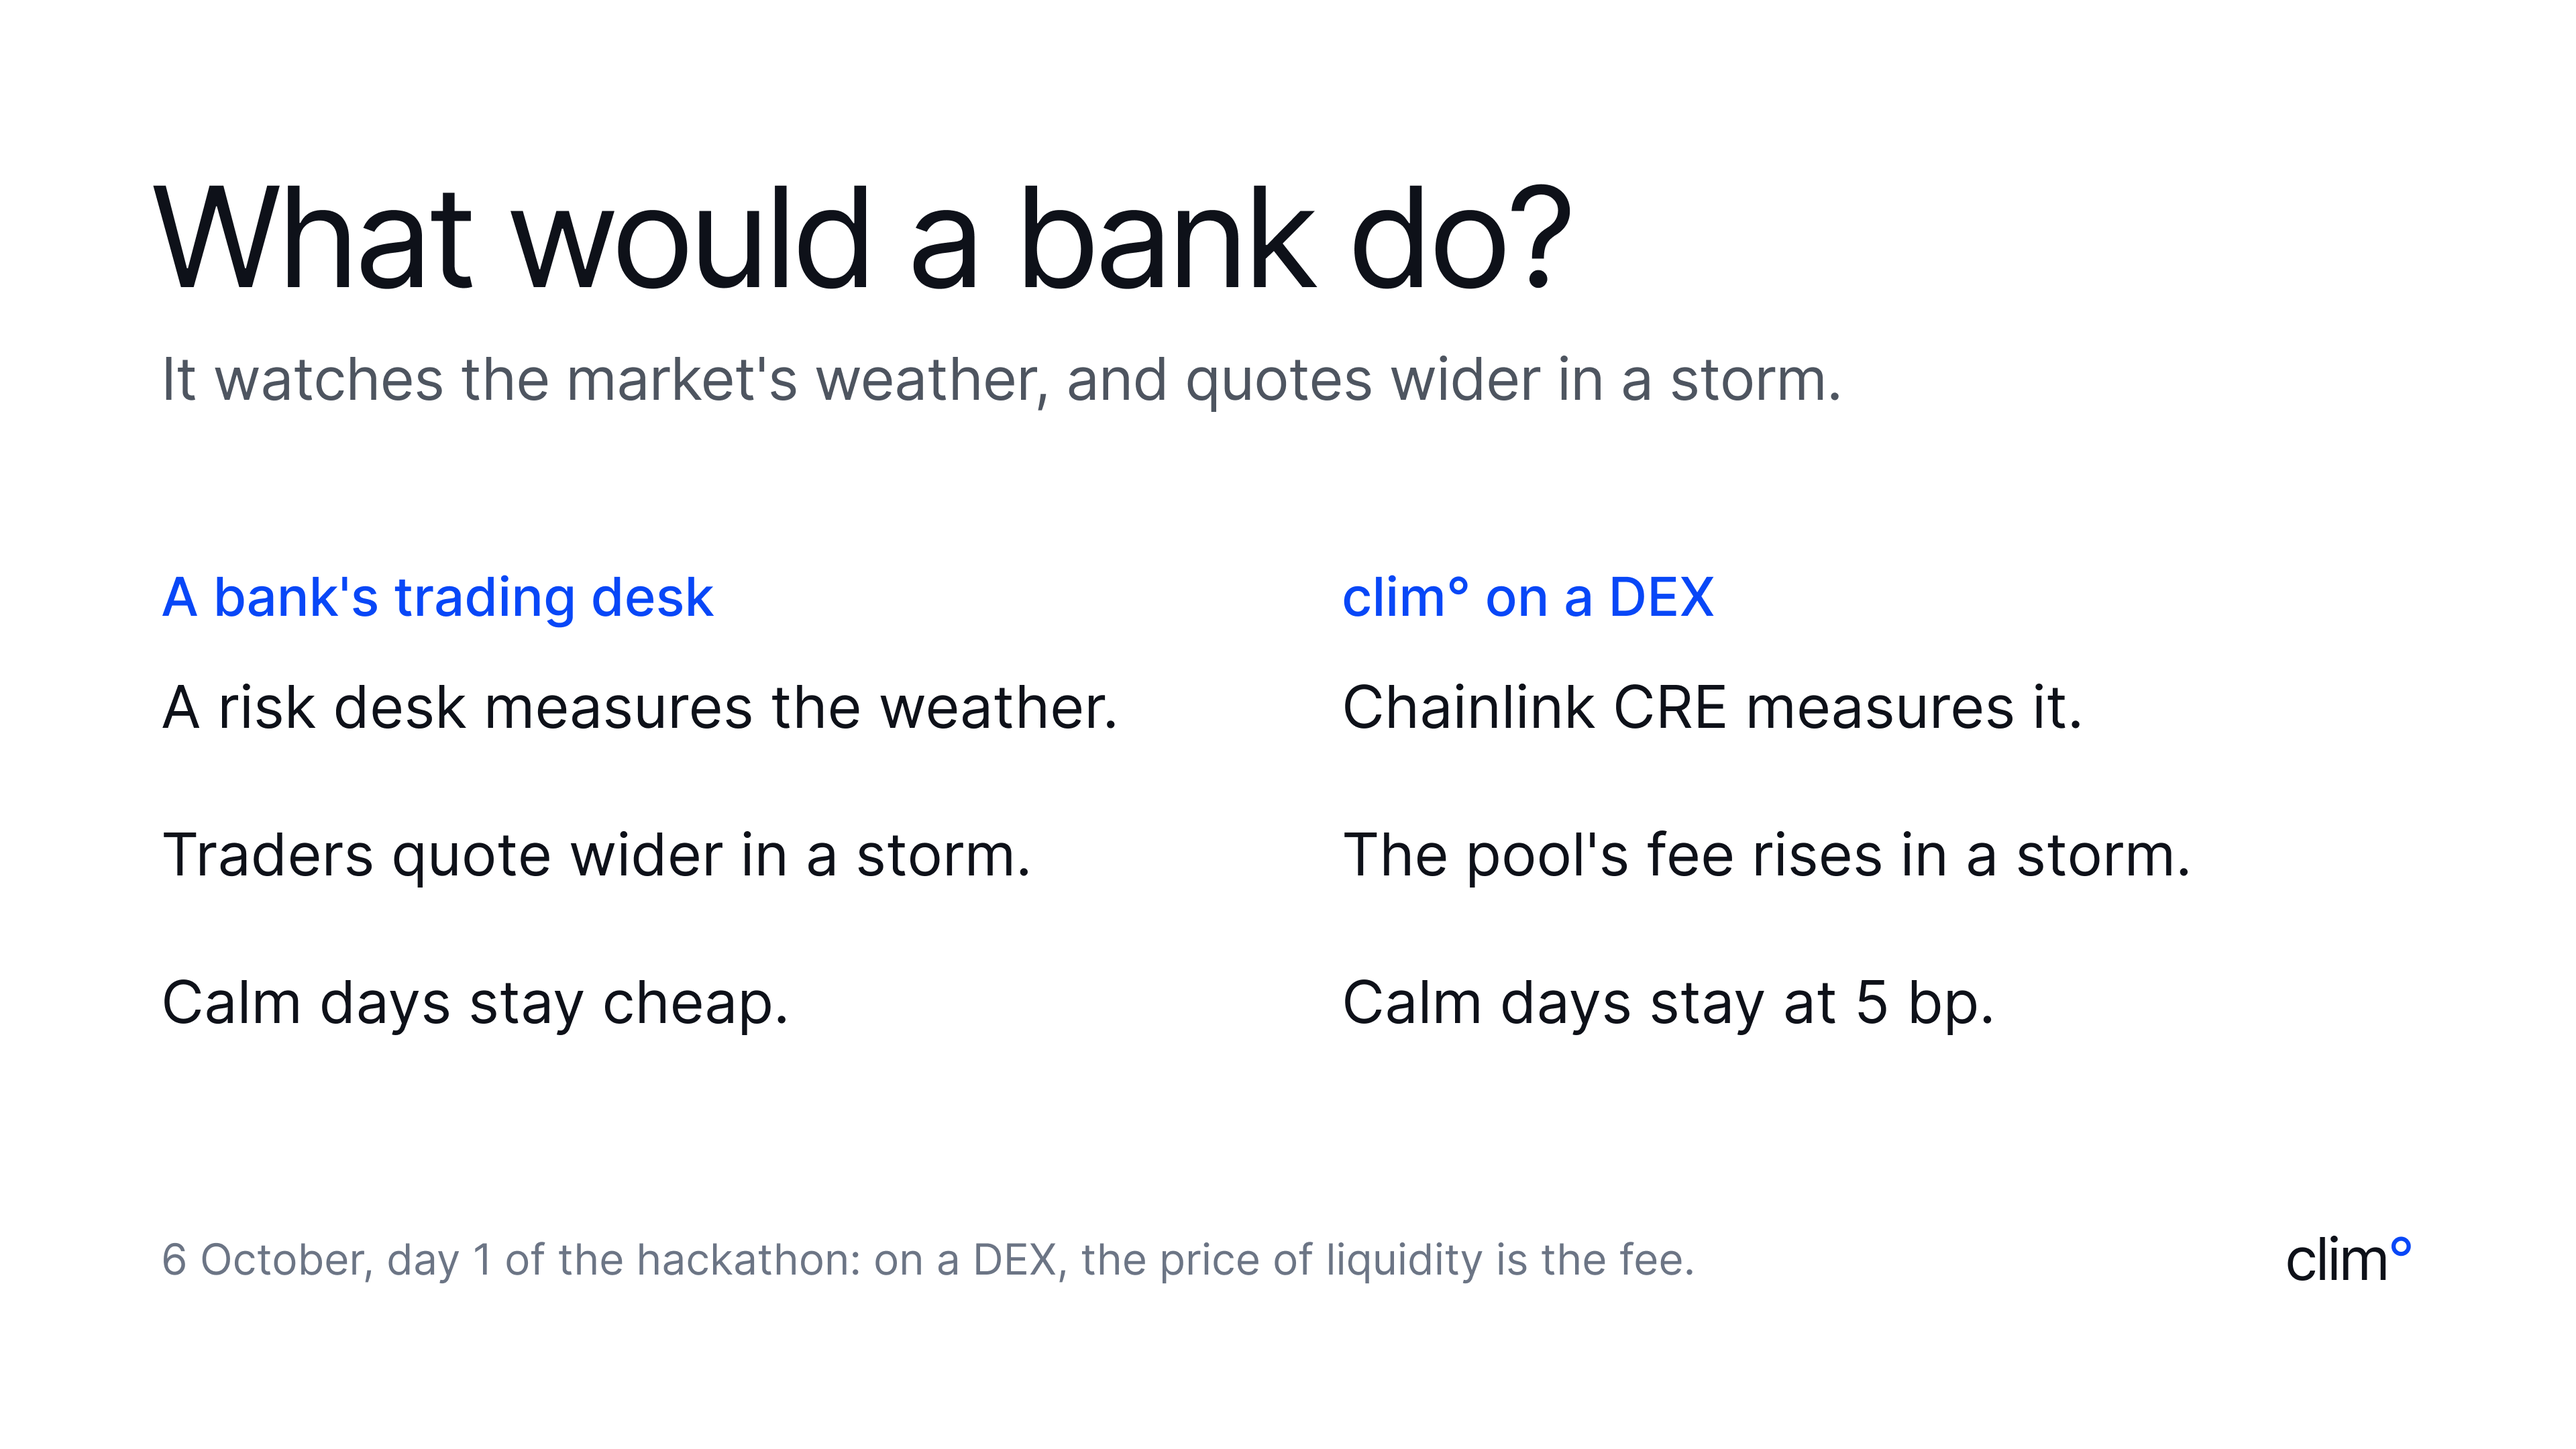
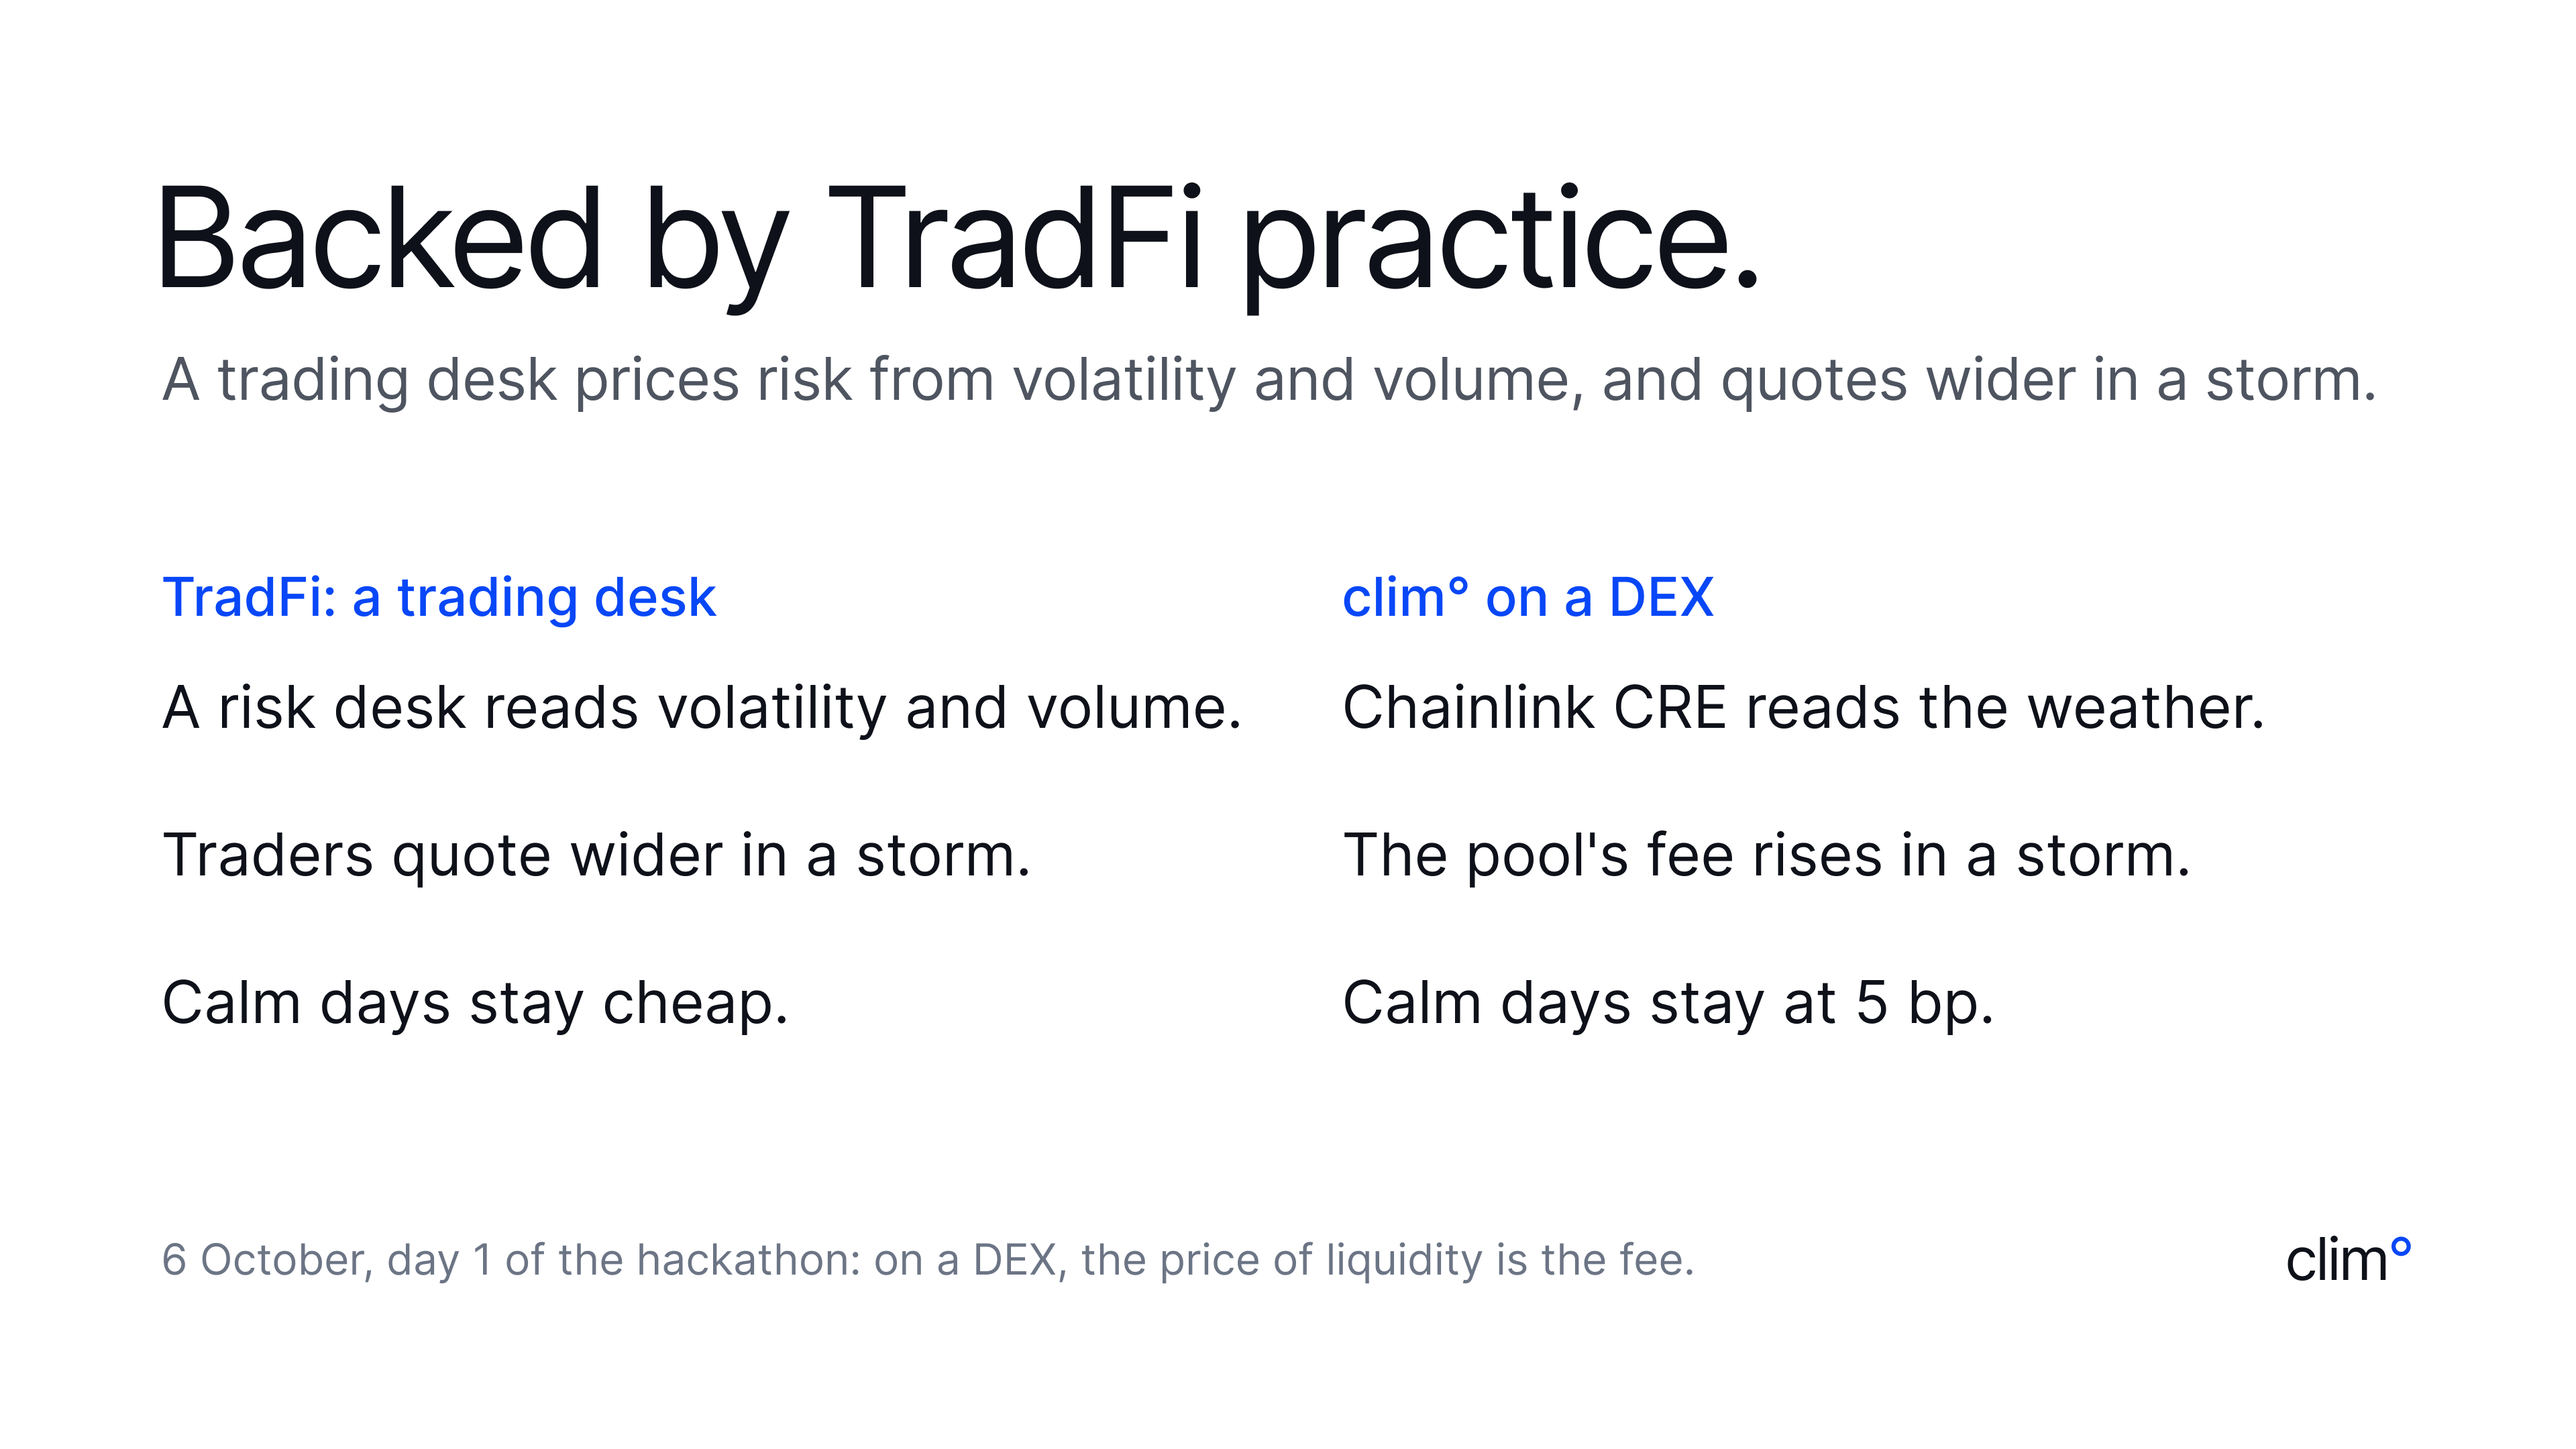
feat(deck): keeper fed by Chainlink CRE on the how slide, volume next to volatility on the TradFi and roadmap slides, woven in implicitly; slide 04 is Backed by TradFi practice
Claude-Session: https://claude.ai/code/session_011AjdkB1cZJazGMHDLdss5Y

diff --git a/docs/sessions/2026-10-07.md b/docs/sessions/2026-10-07.md
@@ -291,3 +291,7 @@ Decisions, feedback and open questions that matter for the code. Non-code notes 
   - In Figma, the group `204:320` holds the 10 slides in deck order, top to bottom, named `2x 01` to `2x 10` (new or merged: `220:2`, `220:19`, `223:2`, `224:2`), and the four replaced frames are in "Pres archive" (`231:2`) beside it (maintainer: same place and naming as the others, easy to export) and exported to `deck/v2/png/v3-*.png`. The four replaced PNGs stay for the demo video. `slides.json` carries the new titles, text and notes with their sources, renumbered references, and the merged notes; `test/deck.test.mjs` reads the live count on slide 09.
   - Submission 40 pass. `npm run deck` built the deck with the stage video the video session had dropped (10 slides, 16.4 MB). Plan 06 has a v3 note in "Deck content".
   - The maintainer then asked for 1920 x 1080 frames, so each column fits the work zone's row like his other decks. Every deck and archive frame was rescaled by half (export at 2x for the same 3840 x 2160 PNGs, unchanged in png/). The archive moved to its own column one slot to the right (x 36299), and the logo kit sits under the deck column.
+- (deck) The two Chainlink conversations, woven into the deck without attribution (maintainer: implicit, not a "developers told us" slide; a dedicated slide was built and removed):
+  - 6 Oct, the mentor at our pitch (the maintainer's account): fees change because the pool is created with a keeper fed by Chainlink CRE's output. Slide 06 now says "Each pool is created with its keeper; Chainlink CRE feeds it every 30 s." and labels the v4 hook "The keeper: prices every swap" (`v3-06-how.png`); its notes no longer say "no keeper".
+  - 7 Oct, the DevRel judge: volume as well as volatility, with established TradFi or DeFi methods. Slide 04 is now "Backed by TradFi practice." (a trading desk prices risk from volatility and volume and quotes wider in a storm; the maintainer did not like the bank framing). Slide 10's item 3 reads "Next: volume next to volatility, as market makers price it." (`v3-10-roadmap.png`); its notes give thin volume, lower fee and informed flow, higher fee, with k clamped to [1, 2] in this build.
+  - The 04-how and 10-roadmap PNGs stay for the demo video. Submission 40 pass; `npm run deck` built 10 slides with the stage video, 16.4 MB.
